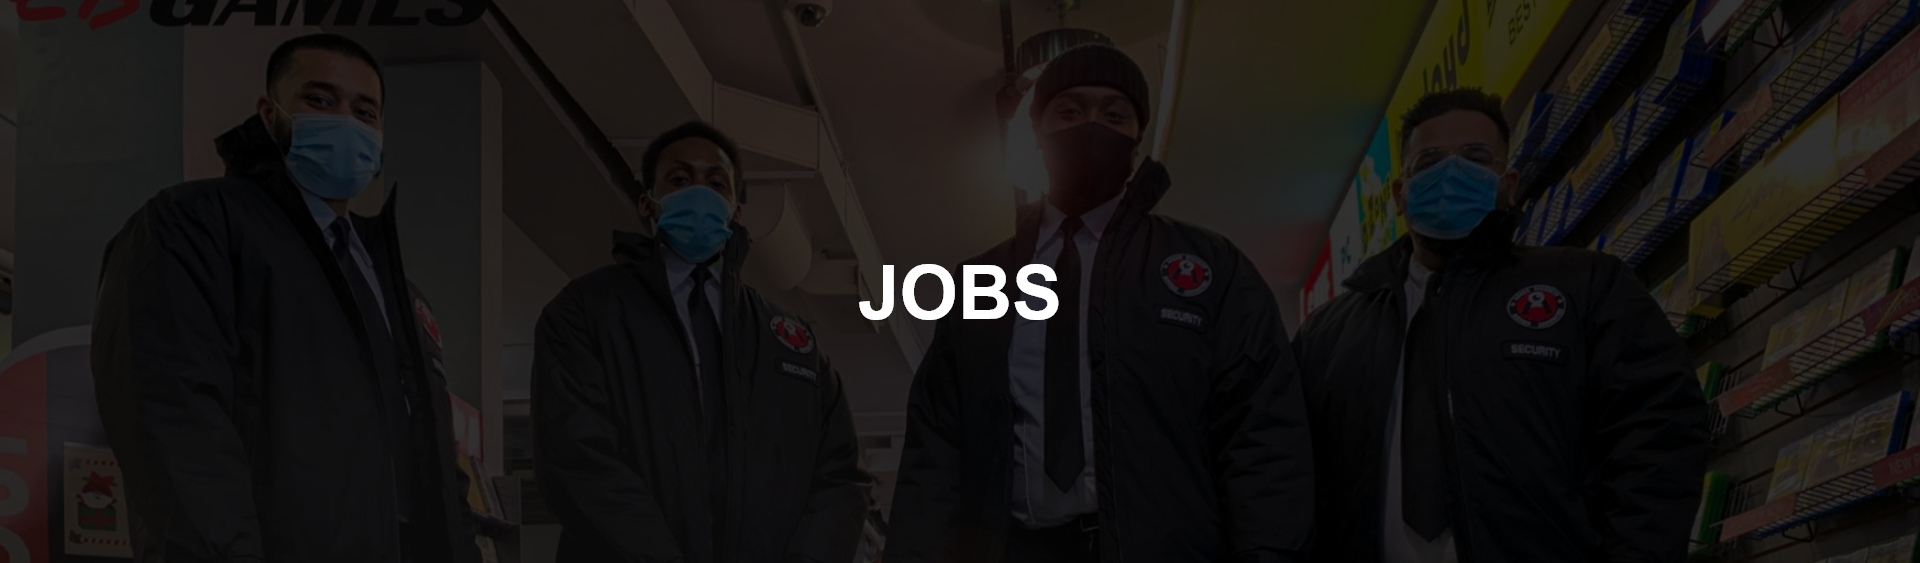
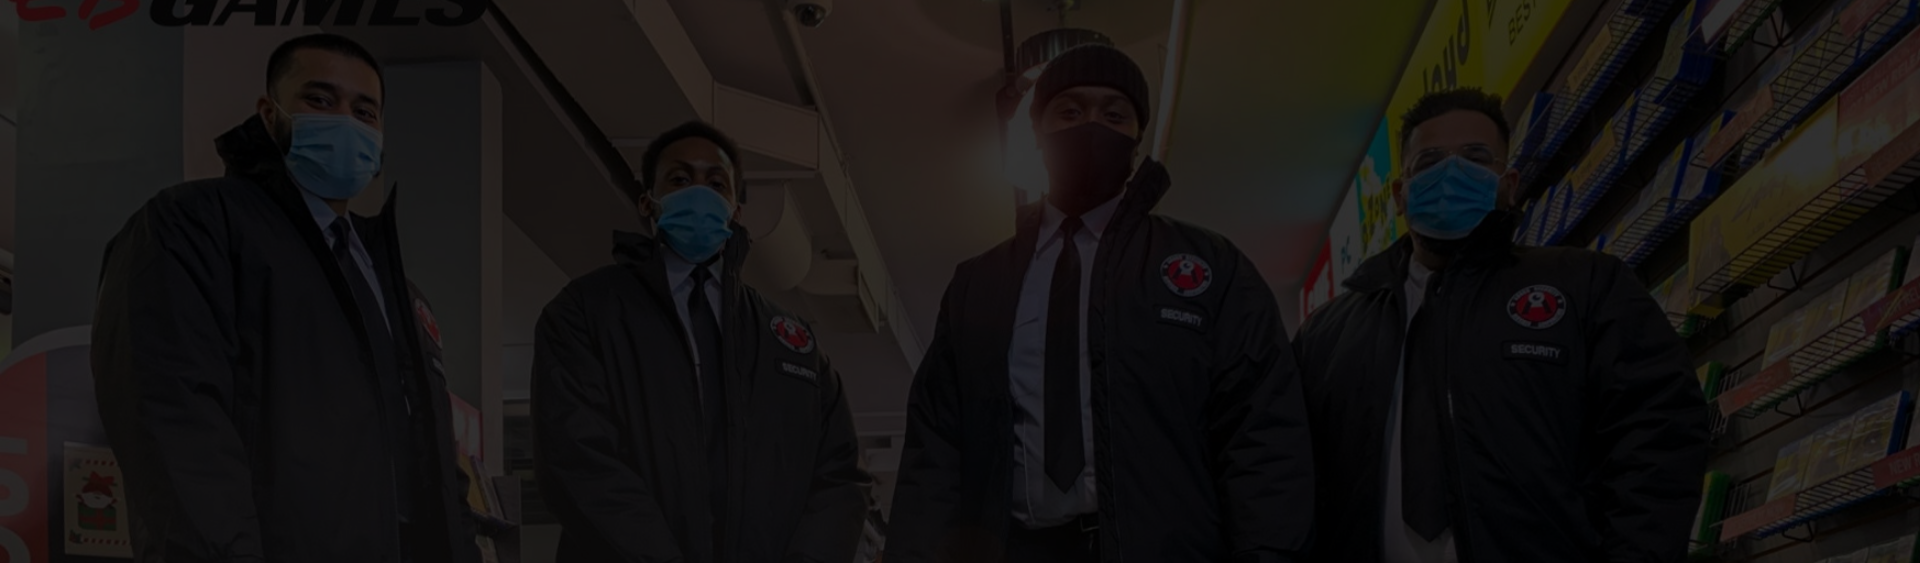
Homepage header structure added

Changed region(s): [[0.4375, 0.4529, 0.5625, 0.5737]]

diff --git a/src/MyComponents/Main/Home.js b/src/MyComponents/Main/Home.js
@@ -1,14 +1,153 @@
 import React from 'react'
+import section_img1 from './../../argus website/PNG/Video.png'
+import section_img2 from './../../argus website/PNG/sdm.png'
+import section3img from './../../argus website/PNG/Group -5.png'
+import section4img from './../../argus website/PNG/raw-2_edited.png'
 
 export default function Home() {
   return (
     <div>
-      < div class="text-gray-600 body-font bg-cover bg-hero sm:bg-contain">
-  <div class="container mx-auto flex flex-col px-5 py-24 justify-center items-center">
-    <div class="w-full md:w-2/3 flex flex-col mb-16 items-center text-center">
-      <h1 class="title-font sm:text-4xl text-3xl mb-4 font-medium text-gray-900">Knausgaard typewriter readymade marfa</h1>
-      <p class="mb-8 leading-relaxed">Kickstarter biodiesel roof party wayfarers cold-pressed. Palo santo live-edge tumeric scenester copper mug flexitarian. Prism vice offal plaid everyday carry. Gluten-free chia VHS squid listicle artisan.</p>
-      <p class="text-sm mt-2 text-gray-500 mb-8 w-full">Neutra shabby chic ramps, viral fixie.</p>
+     
+     <div class="text-gray-600 body-font bg-cover bg-no-repeat bg-center bg-hero">
+        <div class="container mx-auto justify-center items-center">
+          <div class=" items-center text-center">
+            <p class="py-24 sm:py-60"></p>
+          </div>
+        </div>
+      </div>
+      <div class="container px-2 mx-auto sm:-mt-20">
+          <div class="lg:w-9/12 flex flex-col sm:flex-row sm:items-center mx-auto">
+              <h1 class="flex-grow sm:pr-16 text-4xl font-medium title-font text-gray-400">Call us <br/><span class="text-red-700 text-6xl font-bold">647.289.1070</span></h1>
+              <button class="flex-shrink-0 text-white text-l bg-red-700 border-0 py-4 px-8 focus:outline-none hover:bg-white border-2 border-red-700 hover:text-red-700 rounded-lg text-lg mt-10 sm:mt-0">DISCOVER MORE</button>
+          </div>
+      </div>
+
+<div class="text-gray-600 body-font overflow-hidden">
+  < div class="flex flex-wrap px-8 mt-8 text-white justify-center">
+      <div class="bg-red-700 px-16 py-5">
+        <p>100% Accountable</p>
+        <h1 class="font-bold">Know the Truth for Peace of Mind</h1>
+      </div>
+      <div class="bg-gray-700 px-16 py-5">
+        <p>100% Accountable</p>
+        <h1 class="font-bold">Direct Updates Regarding Incidents</h1>
+      </div>
+    </div>
+  <div class="container px-5 py-24 mx-auto">
+    <div class="flex flex-wrap -m-12">
+      <div class="p-12 items-end md:w-1/2 flex flex-col items-start bg-cover bg-no-repeat bg-mapbg">
+        <img src={section_img1} alt="Argus Security Services"/>
+        <img src={section_img2} alt="Argus Security Services" class="bg-red-700 w-7/12 nborder-t-8 border-l-8 -mt-60"/>
+      </div>
+      <div class="p-12 md:w-1/2 flex flex-col items-start">
+        <h2 class="font-bold sm:text-5xl text-2xl title-font font-medium text-gray-900 mt-4 mb-4">Introducing Argus
+          Security Services</h2>
+        <p class="leading-relaxed mb-8">Argus Security ensures the team adherence to company rules and
+          regulations. Our goal is to make our clients the direct beneficiaries of our
+          policies and procedures. </p>
+        <div class="flex ">
+          <ul class="px-4">
+            <li>Optimized Mobile Patrols</li>
+            <li>Fool Proof Checkpoints </li>
+            <li>GPS Tracking </li>
+          </ul>
+          <ul class="px-4">
+            <li>Reliable Fire Watch</li>
+            <li>Tangible Proof of Service</li>
+            <li>Efficient Dispatching System </li>
+          </ul>
+        </div>
+        <div>
+          
+        </div>
+      </div>
+    </div>
+  </div>
+</div>
+
+<div class="text-gray-600 body-font">
+  <div class="container px-5 py-24 mx-auto">
+    <div class="flex flex-wrap -m-4">
+      <div class="p-4 md:w-1/3">
+        <div class="h-full border-2 border-gray-200 border-opacity-60 rounded-lg overflow-hidden">
+          <img src={section3img} alt="Residential Security"/>
+          <div class="p-6 text-center bg-gray-200">
+            <h1 class="title-font text-lg font-medium text-gray-900 mb-3">RESIDENTIAL</h1>
+            <p class="leading-relaxed mb-3">Offering Security Personnel to keep
+              your home safe.</p>
+            <button class="w-full bg-red-700 py-4 rounded-lg text-white">Read More</button>
+          </div>
+        </div>
+      </div>
+      <div class="p-4 md:w-1/3">
+        <div class="h-full border-2 border-gray-200 border-opacity-60 rounded-lg overflow-hidden">
+          <img src={section3img} alt="Residential Security"/>
+          <div class="p-6 text-center bg-gray-200">
+            <h1 class="title-font text-lg font-medium text-gray-900 mb-3">COMMERCIAL</h1>
+            <p class="leading-relaxed mb-3">Let us protect your business so you trade freely and grow.</p>
+            <button class="w-full bg-red-700 py-4 rounded-lg text-white">Read More</button>
+          </div>
+        </div>
+      </div>
+      <div class="p-4 md:w-1/3">
+        <div class="h-full border-2 border-gray-200 border-opacity-60 rounded-lg overflow-hidden">
+          <img src={section3img} alt="Residential Security"/>
+          <div class="p-6 text-center bg-gray-200">
+            <h1 class="title-font text-lg font-medium text-gray-900 mb-3">EVENT</h1>
+            <p class="leading-relaxed mb-3">Trust us to maintain a safe and secure
+            environment</p>
+            <button class="w-full bg-red-700 py-4 rounded-lg text-white">Read More</button>
+          </div>
+        </div>
+      </div>
+    </div>
+  </div>
+</div>
+
+<div class="text-white bg-black body-font overflow-hidden">
+  <div class="container px-5 py-12 mx-auto">
+    <div class="flex flex-wrap -m-12">
+      <div class="w-6/12">
+      <img src={section_img2} alt="Argus Security"/>
+      </div>
+      <div class="p-12 md:w-1/2 flex flex-col items-start">
+        <h2 class="sm:text-5xl text-2xl title-font font-bold text-white mt-4 mb-4">Know your
+          Partners-in-Protection</h2>
+        <div class="flex items-center p-4">
+          <button class="px-6 py-2 bg-red-700 mx-2">Our Team</button>
+          <button class="px-6 py-2 bg-red-700 mx-2">Argus Hierarchy</button>
+          <button class="px-6 py-2 bg-red-700 mx-2">Contact</button>
+        </div>
+        <p class="leading-relaxed mb-8">At Argus Security Services we maintain a prominent level of
+          training for our guards in response to our highly sensitive sites.
+          We offer 24/7 fast and reliable security services. Qualifications
+          of our Directors are as follows:</p>
+        <div class="flex items-center flex-wrap pb-4 mb-4 mt-auto w-full">
+          <div>
+            <img src={section4img} alt=""/>
+          </div>
+          <div>
+          <ul class="px-4">
+            <li>Member of Law society of Ontario</li>
+            <li>Police Foundation Certified</li>
+            <li>7 Years of Security Experience </li>
+            <li>Sometimes buys me Coffee</li>
+            <li>Good Taste in Movies</li>
+            <li>Good Guy Though </li>
+          </ul>
+          </div>
+        </div> 
+      </div>
+    </div>
+  </div>
+</div>
+
+<div class="text-gray-600 body-font bg-red-700">
+  <div class="container px-5 py-20 mx-auto">
+    <div class="lg:w-10/12 flex flex-col sm:flex-row sm:items-center items-center mx-auto">
+      <h1 class="flex-grow sm:pr-16 text-5xl font-medium title-font text-white">Covid 19 Procedures and much
+        more to safeguard your business.</h1>
+      <button class="flex-shrink-0 font-bold text-red-700 bg-white border-0 py-5 px-10 focus:outline-none hover:bg-red-700 border-2 border-white hover:text-white rounded-lg text-sm mt-10 sm:mt-0">DISCOVER MORE</button>
     </div>
   </div>
 </div>

diff --git a/src/MyComponents/Partials/Header.js b/src/MyComponents/Partials/Header.js
@@ -1,35 +1,41 @@
-import React from 'react'
+import React, { Component } from 'react'
+import logo from './../../argus website/PNG/Logo Vectors.png'
 
-export default function Header() {
-  return (
-    <div>
-      <div class="flex items-center justify-between flex-wrap bg-teal p-6">
-  <div class="flex items-center flex-no-shrink text-white mr-6">
-    <svg class="h-8 w-8 mr-2" width="54" height="54" viewBox="0 0 54 54" xmlns="http://www.w3.org/2000/svg"><path d="M13.5 22.1c1.8-7.2 6.3-10.8 13.5-10.8 10.8 0 12.15 8.1 17.55 9.45 3.6.9 6.75-.45 9.45-4.05-1.8 7.2-6.3 10.8-13.5 10.8-10.8 0-12.15-8.1-17.55-9.45-3.6-.9-6.75.45-9.45 4.05zM0 38.3c1.8-7.2 6.3-10.8 13.5-10.8 10.8 0 12.15 8.1 17.55 9.45 3.6.9 6.75-.45 9.45-4.05-1.8 7.2-6.3 10.8-13.5 10.8-10.8 0-12.15-8.1-17.55-9.45-3.6-.9-6.75.45-9.45 4.05z"/></svg>
-    <span class="font-semibold text-xl tracking-tight">Tailwind CSS</span>
-  </div>
-  <div class="block lg:hidden">
-    <button class="flex items-center px-3 py-2 border rounded text-teal-lighter border-teal-light hover:text-white hover:border-white">
-      <svg class="h-3 w-3" viewBox="0 0 20 20" xmlns="http://www.w3.org/2000/svg"><title>Menu</title><path d="M0 3h20v2H0V3zm0 6h20v2H0V9zm0 6h20v2H0v-2z"/></svg>
-    </button>
-  </div>
-  <div class="w-full block flex-grow lg:flex lg:items-center lg:w-auto">
-    <div class="text-sm lg:flex-grow">
-      <a href="#responsive-header" class="block mt-4 lg:inline-block lg:mt-0 text-teal-lighter hover:text-white mr-4">
-        Docs
-      </a>
-      <a href="#responsive-header" class="block mt-4 lg:inline-block lg:mt-0 text-teal-lighter hover:text-white mr-4">
-        Examples
-      </a>
-      <a href="#responsive-header" class="block mt-4 lg:inline-block lg:mt-0 text-teal-lighter hover:text-white">
-        Blog
-      </a>
-    </div>
-    <div>
-      <a href="#" class="inline-block text-sm px-4 py-2 leading-none border rounded text-white border-white hover:border-transparent hover:text-teal hover:bg-white mt-4 lg:mt-0">Download</a>
+class Header extends Component {
+  render() {
+    return (
+      <div>
+
+<div class="text-white body-font bg-red-700">
+  <div class="container mx-auto flex flex-wrap p-5 flex-col md:flex-row items-center">
+    <nav class="flex lg:w-2/5 flex-wrap items-center text-base md:ml-auto">
+      <a class="mr-5 hover:text-gray-900">Technology</a>
+      <a class="mr-5 hover:text-gray-900">Get Your Security Guard License</a>
+    </nav>
+    <a class="flex order-first lg:order-none lg:w-1/5 title-font font-medium items-center text-gray-900 lg:items-center lg:justify-center mb-4 md:mb-0">
+    <img src={logo} alt="Logo of Argus Security Services"/>
+    </a>
+    <div class="lg:w-2/5 inline-flex lg:justify-end ml-5 lg:ml-0">
+    <nav class="flex lg:w-full flex-wrap items-center text-base md:ml-auto">
+      <a class="mr-5 hover:text-gray-900">Student Portal</a>
+      <a class="mr-5 hover:text-gray-900">Client Portal</a>
+      <a class="mr-5 hover:text-gray-900">Employee Portal</a>
+    </nav>
     </div>
   </div>
 </div>
-    </div>
-  )
+<div class="sticky top-0 z-50 container mx-auto flex flex-wrap p-5 flex-col md:flex-row items-center">
+    <nav class="md:ml-auto md:mr-auto flex flex-wrap items-center text-base justify-center">
+      <a class="mr-5 hover:text-gray-900">About</a>
+      <a class="mr-5 hover:text-gray-900">Services</a>
+      <a class="mr-5 hover:text-gray-900">Jobs</a>
+      <a class="mr-5 hover:text-gray-900">Training</a>
+      <a class="mr-5 hover:text-gray-900">Contact</a>
+    </nav>
+  </div>
+</div>
+    )
+  }
 }
+
+export default Header

diff --git a/src/MyComponents/Main/About.js b/src/MyComponents/Main/About.js
@@ -5,7 +5,7 @@ class About extends Component {
     render() {
         return (
             <div>
-                <div className="text-gray-600 body-font bg-no-repeat bg-cover bg-contactbg">
+                <div className="text-gray-600 body-font bg-no-repeat bg-cover bg-aboutbg">
                     <div className="container mx-auto flex px-5 py-24 items-center justify-center flex-col">
                         <div className="text-center lg:w-2/3 w-full">
                         <h1 className="title-font sm:text-7xl text-3xl mb-4 font-medium text-black">About Us</h1>
@@ -50,7 +50,7 @@ class About extends Component {
                         </div>                   
                     
                     </div>
-                    <div className=" lg:w-1/3 px-4 md:w-1/2 flex flex-col md:ml-auto w-full md:py-8 mt-8 md:mt-0">
+                    <div className=" lg:w-1/3 px-4 md:w-1/2 flex flex-col md:ml-auto w-full md:mt-0">
                         <div className="text-black">
                             <h1 className="font-bold bg-gray-700 text-white text-2xl p-5">Services</h1>
                             <h1 className=" bg-gray-200 text-xl py-2 pl-8 hover:bg-red-700 hover:text-white hover:rounded-lg">Commercial Security</h1>

diff --git a/src/MyComponents/Main/Contact.js b/src/MyComponents/Main/Contact.js
@@ -10,10 +10,10 @@ class Contact extends Component {
         return (
             <div>
                 
-                <div className="text-gray-600 body-font bg-no-repeat bg-cover bg-contactbg">
+                <div className="text-gray-600 body-font bg-no-repeat bg-cover bg-jobsbg">
                     <div className="container mx-auto flex px-5 py-24 items-center justify-center flex-col">
                         <div className="text-center lg:w-2/3 w-full">
-                        <h1 className="title-font sm:text-7xl text-3xl mb-4 font-medium text-black">Contact Us</h1>
+                        <h1 className="title-font sm:text-7xl text-3xl mb-4 font-medium text-white">Contact</h1>
                         </div>
                     </div>
                 </div>

diff --git a/src/MyComponents/Main/Jobs.js b/src/MyComponents/Main/Jobs.js
@@ -5,7 +5,7 @@ class Jobs extends Component {
     render() {
         return (
             <div>
-                <div className="text-gray-600 body-font bg-no-repeat bg-cover bg-contactbg">
+                <div className="text-gray-600 body-font bg-no-repeat bg-cover bg-jobsbg">
                     <div className="container mx-auto flex px-5 py-24 items-center justify-center flex-col">
                         <div className="text-center lg:w-2/3 w-full">
                         <h1 className="title-font sm:text-7xl text-3xl mb-4 font-medium text-black">Jobs</h1>

diff --git a/tailwind.config.js b/tailwind.config.js
@@ -7,7 +7,9 @@ module.exports = {
         'hero': "url('argus website/PNG/Insta Argus12.png')",
         'footer': "url('argus website/PNG/Footerbg.png')",
         'mapbg': "url('argus website/PNG/World Map.png')",
-        'contactbg': "url('argus website/PNG/fleet 2-2.png')",
+        'aboutbg':"url('argus website/PNG/Image Thumbnail2.png')",
+        'servicesbg':"url('argus website/PNG/Image Thumbnail.png')",
+        'jobsbg':"url('argus website/PNG/Image Thumbnail1.png')",
        })
     },
   },

diff --git a/src/App.js b/src/App.js
@@ -11,12 +11,9 @@ import Jobs from './MyComponents/Main/Jobs'
 function App() {
   return (
     <div className="App">
-      <About />
-      <Jobs />
-      <Contact />
+      <Header/>
+      <Home />
       <Footer />
-      <SignUp/>
-      <LogIn/>
     </div>
   );
 }
